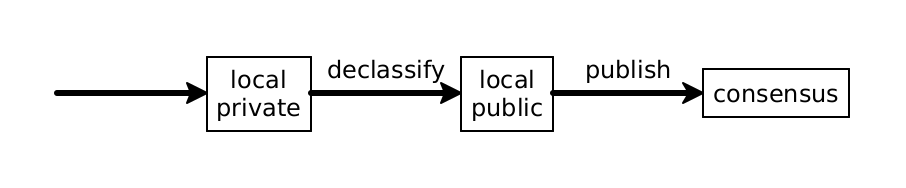
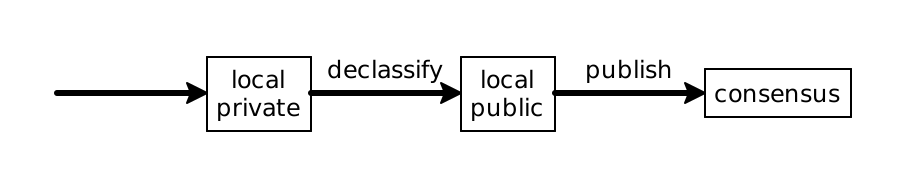
[ci skip] docs for 22d77f03e435856319d569c795676c5dca20b5d8

diff --git a/ref-model.html b/ref-model.html
@@ -35,7 +35,7 @@ selects between different next <a href="#%28tech._consensus._computation%29" cla
 communicates with another <a href="#%28tech._contract%29" class="techoutside" data-pltdoc="x"><span class="techinside">contract</span></a> (referred to as a <a href="ref-programs-consensus.html#%28tech._remote._object%29" class="techoutside" data-pltdoc="x"><span class="techinside">remote object</span></a>),
 or <a name="(tech._commit)"></a><span style="font-style: italic">commits</span> to the next <a href="#%28tech._step%29" class="techoutside" data-pltdoc="x"><span class="techinside">step</span></a>.</p><p>An <a name="(tech._assert)"></a><span style="font-style: italic">assert</span>ion is either: a <a name="(tech._knowledge._assertion)"></a><span style="font-style: italic">knowledge assertion</span>, which is a claim that one <a href="#%28tech._honest%29" class="techoutside" data-pltdoc="x"><span class="techinside">honest</span></a> <a href="#%28tech._participant%29" class="techoutside" data-pltdoc="x"><span class="techinside">participant</span></a> cannot know something that another <a href="#%28tech._honest%29" class="techoutside" data-pltdoc="x"><span class="techinside">honest</span></a> <a href="#%28tech._participant%29" class="techoutside" data-pltdoc="x"><span class="techinside">participant</span></a> does know; a <a name="(tech._static._assertion)"></a><span style="font-style: italic">static assertion</span>, which is an always-true formula; an <a name="(tech._assumption)"></a><span style="font-style: italic">assumption</span>, which is a true formula if <a href="#%28tech._frontend%29" class="techoutside" data-pltdoc="x"><span class="techinside">frontends</span></a> behave <a href="#%28tech._honest%29" class="techoutside" data-pltdoc="x"><span class="techinside">honest</span></a>ly; a <a name="(tech._requirement)"></a><span style="font-style: italic">requirement</span>, which is a true formula if <a href="#%28tech._participant%29" class="techoutside" data-pltdoc="x"><span class="techinside">participants</span></a> behave <a href="#%28tech._honest%29" class="techoutside" data-pltdoc="x"><span class="techinside">honest</span></a>ly; or, a <a name="(tech._possibility._assertion)"></a><span style="font-style: italic">possibility assertion</span>, which is a formula for which there exists some values that <a href="#%28tech._honest%29" class="techoutside" data-pltdoc="x"><span class="techinside">honest</span></a> <a href="#%28tech._participant%29" class="techoutside" data-pltdoc="x"><span class="techinside">participants</span></a> and <a href="#%28tech._frontend%29" class="techoutside" data-pltdoc="x"><span class="techinside">frontends</span></a> could submit which results in the truth of the formula.
 An <a name="(tech._honest)"></a><span style="font-style: italic">honest</span> <a href="#%28tech._participant%29" class="techoutside" data-pltdoc="x"><span class="techinside">participant</span></a> is one that executes the <a href="#%28tech._step%29" class="techoutside" data-pltdoc="x"><span class="techinside">steps</span></a> specified by the <a href="#%28tech._dapp%29" class="techoutside" data-pltdoc="x"><span class="techinside">DApp</span></a>, while an <a href="#%28tech._honest%29" class="techoutside" data-pltdoc="x"><span class="techinside">honest</span></a> <a href="#%28tech._frontend%29" class="techoutside" data-pltdoc="x"><span class="techinside">frontend</span></a> is one that only returns <a href="#%28tech._value%29" class="techoutside" data-pltdoc="x"><span class="techinside">values</span></a> which ensure that all <a href="#%28tech._assumption%29" class="techoutside" data-pltdoc="x"><span class="techinside">assumptions</span></a> evaluate to the boolean <code class="highlight"><a href="ref-programs-compute.html#%28reach._%28%28true%29%29%29" class="kc" data-pltdoc="x">true</a></code>.</p><p>A <a name="(tech._value)"></a><span style="font-style: italic">value</span> is either: the <span class="RktInBG"><span class="hspace"></span><span class="RktIn">null</span><span class="hspace"></span></span> value, a boolean, an unsigned integer, a string of bytes, a <a href="#%28tech._digest%29" class="techoutside" data-pltdoc="x"><span class="techinside">digest</span></a>, an <a href="#%28tech._addres%29" class="techoutside" data-pltdoc="x"><span class="techinside">address</span></a>, a fixed tuple of <a href="#%28tech._value%29" class="techoutside" data-pltdoc="x"><span class="techinside">values</span></a>, a statically-sized homogeneous array of <a href="#%28tech._value%29" class="techoutside" data-pltdoc="x"><span class="techinside">values</span></a>, or a fixed record of <a href="#%28tech._value%29" class="techoutside" data-pltdoc="x"><span class="techinside">values</span></a>.
-<a href="#%28tech._value%29" class="techoutside" data-pltdoc="x"><span class="techinside">Values</span></a> may be <a name="(tech._digest)"></a><span style="font-style: italic">digest</span>ed to produce a <a href="https://en.wikipedia.org/wiki/Cryptographic_hash_function">cryptographic hash</a> of their binary encoding.</p><p><a href="#%28tech._value%29" class="techoutside" data-pltdoc="x"><span class="techinside">Values</span></a> are in one of three possible conditions. They could be <a href="#%28tech._consensus._state%29" class="techoutside" data-pltdoc="x"><span class="techinside">consensus state</span></a>, in which case they are known to all <a href="#%28tech._participant%29" class="techoutside" data-pltdoc="x"><span class="techinside">participants</span></a>. They could be <a href="#%28tech._local._state%29" class="techoutside" data-pltdoc="x"><span class="techinside">local state</span></a> of a single <a href="#%28tech._participant%29" class="techoutside" data-pltdoc="x"><span class="techinside">participant</span></a>, which means they are known by only that <a href="#%28tech._participant%29" class="techoutside" data-pltdoc="x"><span class="techinside">participant</span></a>. <a href="#%28tech._local._state%29" class="techoutside" data-pltdoc="x"><span class="techinside">Local state</span></a> is further divided into <a href="#%28tech._private%29" class="techoutside" data-pltdoc="x"><span class="techinside">private</span></a> <a href="#%28tech._local._state%29" class="techoutside" data-pltdoc="x"><span class="techinside">local state</span></a>, which cannot be included in a <a href="#%28tech._publication%29" class="techoutside" data-pltdoc="x"><span class="techinside">publication</span></a>, and <a href="#%28tech._public%29" class="techoutside" data-pltdoc="x"><span class="techinside">public</span></a> <a href="#%28tech._local._state%29" class="techoutside" data-pltdoc="x"><span class="techinside">local state</span></a>, which can. These conditions are summarized in <a href="#%28counter._%28figure._fig~3avalue-states%29%29" data-pltdoc="x">figure&nbsp;<span class="FigureRef">16</span></a>.</p><blockquote class="Figure"><blockquote class="Centerfigure"><blockquote class="FigureInside"><p><img style="vertical-align: -32.830078125px; margin: -3px -3px -3px -3px;" src="pict.png" alt="image" width="452.427734375" height="93.9375"/></p></blockquote></blockquote><p class="Centertext"><span class="Legend"><span class="FigureTarget"><a name="(counter._(figure._fig~3avalue-states))" x-target-lift="Figure"></a>Figure&nbsp;16: </span>The three conditions of values</span></p></blockquote><h5>5.3.2<tt>&nbsp;</tt><a name="(part._ref-model-compile)"></a>Compilation Model</h5><p>Reach programs cannot execute independently of a <a href="#%28tech._consensus._network%29" class="techoutside" data-pltdoc="x"><span class="techinside">consensus network</span></a> and a set of <a href="#%28tech._frontend%29" class="techoutside" data-pltdoc="x"><span class="techinside">frontends</span></a>.
+<a href="#%28tech._value%29" class="techoutside" data-pltdoc="x"><span class="techinside">Values</span></a> may be <a name="(tech._digest)"></a><span style="font-style: italic">digest</span>ed to produce a <a href="https://en.wikipedia.org/wiki/Cryptographic_hash_function">cryptographic hash</a> of their binary encoding.</p><p><a href="#%28tech._value%29" class="techoutside" data-pltdoc="x"><span class="techinside">Values</span></a> are in one of three possible conditions. They could be <a href="#%28tech._consensus._state%29" class="techoutside" data-pltdoc="x"><span class="techinside">consensus state</span></a>, in which case they are known to all <a href="#%28tech._participant%29" class="techoutside" data-pltdoc="x"><span class="techinside">participants</span></a>. They could be <a href="#%28tech._local._state%29" class="techoutside" data-pltdoc="x"><span class="techinside">local state</span></a> of a single <a href="#%28tech._participant%29" class="techoutside" data-pltdoc="x"><span class="techinside">participant</span></a>, which means they are known by only that <a href="#%28tech._participant%29" class="techoutside" data-pltdoc="x"><span class="techinside">participant</span></a>. <a href="#%28tech._local._state%29" class="techoutside" data-pltdoc="x"><span class="techinside">Local state</span></a> is further divided into <a href="#%28tech._private%29" class="techoutside" data-pltdoc="x"><span class="techinside">private</span></a> <a href="#%28tech._local._state%29" class="techoutside" data-pltdoc="x"><span class="techinside">local state</span></a>, which cannot be included in a <a href="#%28tech._publication%29" class="techoutside" data-pltdoc="x"><span class="techinside">publication</span></a>, and <a href="#%28tech._public%29" class="techoutside" data-pltdoc="x"><span class="techinside">public</span></a> <a href="#%28tech._local._state%29" class="techoutside" data-pltdoc="x"><span class="techinside">local state</span></a>, which can. These conditions are summarized in <a href="#%28counter._%28figure._fig~3avalue-states%29%29" data-pltdoc="x">figure&nbsp;<span class="FigureRef">16</span></a>.</p><blockquote class="Figure"><blockquote class="Centerfigure"><blockquote class="FigureInside"><p><img style="vertical-align: -32.830078125px; margin: -3px -3px -3px -3px;" src="pict.png" alt="image" width="453.0" height="93.9375"/></p></blockquote></blockquote><p class="Centertext"><span class="Legend"><span class="FigureTarget"><a name="(counter._(figure._fig~3avalue-states))" x-target-lift="Figure"></a>Figure&nbsp;16: </span>The three conditions of values</span></p></blockquote><h5>5.3.2<tt>&nbsp;</tt><a name="(part._ref-model-compile)"></a>Compilation Model</h5><p>Reach programs cannot execute independently of a <a href="#%28tech._consensus._network%29" class="techoutside" data-pltdoc="x"><span class="techinside">consensus network</span></a> and a set of <a href="#%28tech._frontend%29" class="techoutside" data-pltdoc="x"><span class="techinside">frontends</span></a>.
 Thus, the semantics of Reach treats these components abstractly and does not specify their semantics.
 Therefore, the semantics of Reach cannot be effectively implemented directly in a virtual machine or interpreter.
 Instead, Reach programs are <a name="(tech._compile)"></a><span style="font-style: italic">compile</span>d to
